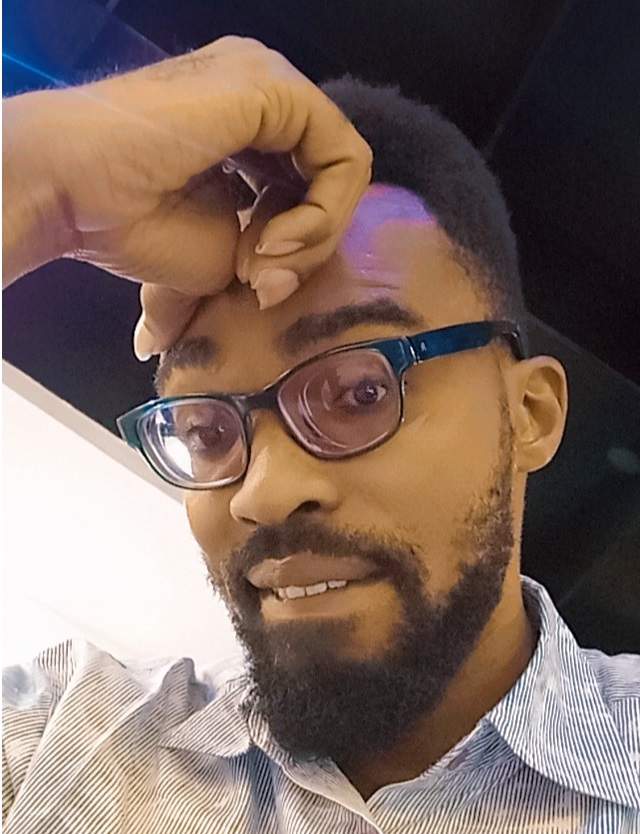
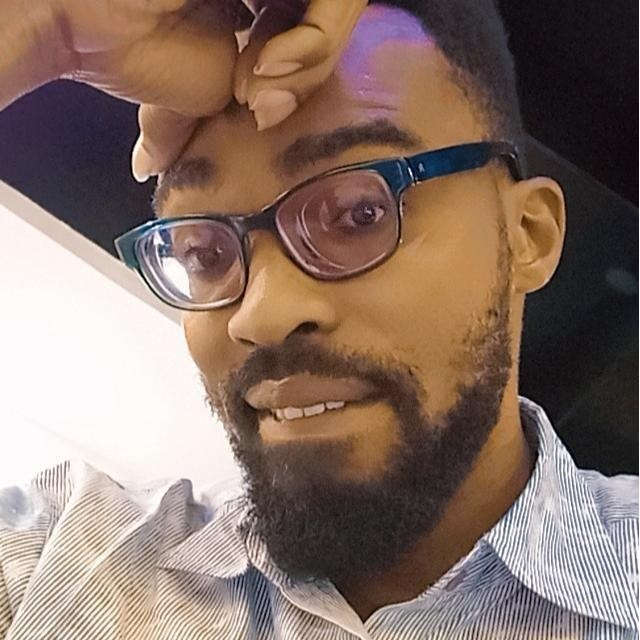
edited pic and added font family

diff --git a/style.css b/style.css
@@ -1,3 +1,6 @@
+body{
+  font-family: 'Gill Sans', 'Gill Sans MT', Calibri, 'Trebuchet MS', sans-serif;
+}
 .container{
   height: 100%;
   width: 100%;
@@ -36,6 +39,7 @@
 .profileimage img{
   height: 200px;
   width: 150px;
+  border-radius: 100%;
 }
 .intro{
   display: flex;
